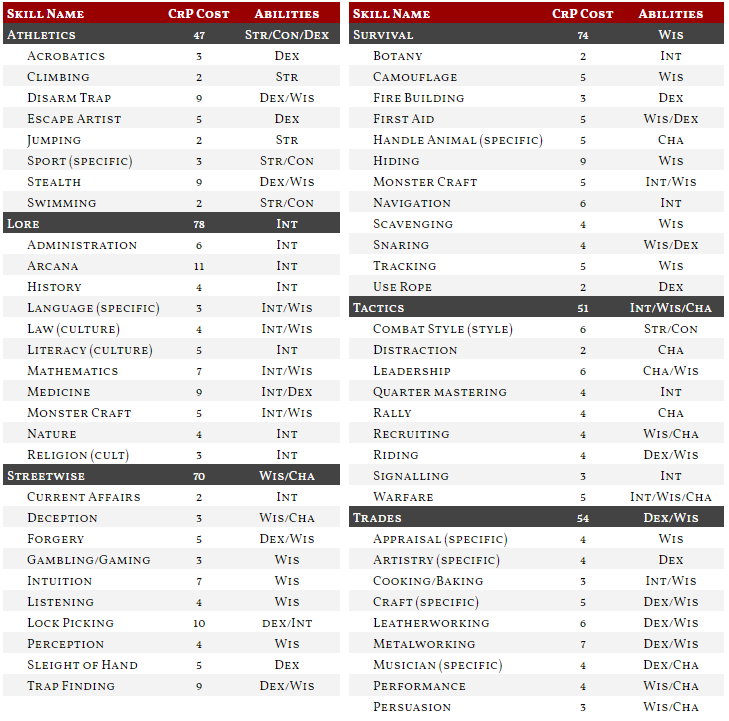
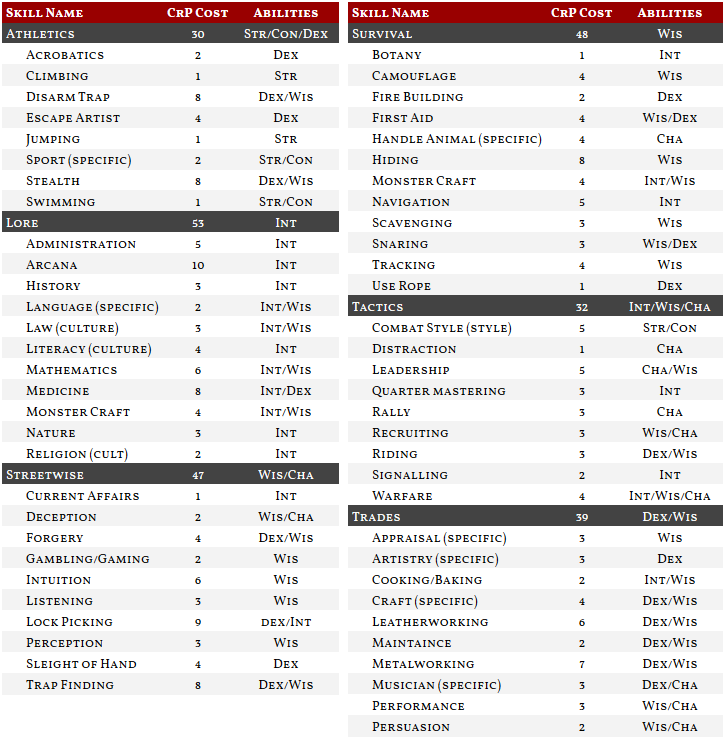
changed out the skill list to include maintaince skill

Changed region(s): [[0.0, 0.0, 0.9986, 1.0], [0.7868, 0.9764, 0.8171, 1.0]]

diff --git a/server/chapter.js b/server/chapter.js
@@ -72,7 +72,7 @@ chapterObject = {
                 break;
             case 8:
                 chapterObject.chapterEight = []
-                chapterObject.chapterEightSide = [{ linkid: 'h', body: 'Athletics Skill Suite' }, { linkid: 'hg', body: 'Acrobatics' }, { linkid: 'hg', body: 'Climbing' }, { linkid: 'hg', body: 'Disarm Trap' }, { linkid: 'hg', body: 'Escape Artist' }, { linkid: 'hg', body: 'Jumping' }, { linkid: 'hg', body: 'Sport (specific)' }, { linkid: 'hg', body: 'Stealth' }, { linkid: 'hg', body: 'Swimming' }, { linkid: 'h', body: 'Lore Skill Suite' }, { linkid: 'hg', body: 'Administration' }, { linkid: 'hg', body: 'Arcana' }, { linkid: 'hg', body: 'History' }, { linkid: 'hg', body: 'Language (specific)' }, { linkid: 'hg', body: 'Law (culture)' }, { linkid: 'hg', body: 'Literacy (language' }, { linkid: 'hg', body: 'Mathematics' }, { linkid: 'hg', body: 'Medicine' }, { linkid: 'hg', body: 'Monster Craft' }, { linkid: 'hg', body: 'Nature' }, { linkid: 'hg', body: 'Religion (cult)' }, { linkid: 'h', body: 'Streetwise Skill Suite' }, { linkid: 'hg', body: 'Current Affairs' }, { linkid: 'hg', body: 'Deception' }, { linkid: 'hg', body: 'Forgery' }, { linkid: 'hg', body: 'Gambling/Gaming' }, { linkid: 'hg', body: 'Intuition' }, { linkid: 'hg', body: 'Listening' }, { linkid: 'hg', body: 'Lock Picking' }, { linkid: 'hg', body: 'Perception' }, { linkid: 'hg', body: 'Sleight of Hand' }, { linkid: 'hg', body: 'Trap Finding' }, { linkid: 'h', body: 'Survival Skill Suite' }, { linkid: 'hg', body: 'Botany' }, { linkid: 'hg', body: 'Camouflage' }, { linkid: 'hg', body: 'Fire Building' }, { linkid: 'hg', body: 'First Aid' }, { linkid: 'hg', body: 'Handle Animal (specific)' }, { linkid: 'hg', body: 'Hiding' }, { linkid: 'hg', body: 'Monster Craft' }, { linkid: 'hg', body: 'Navigation' }, { linkid: 'hg', body: 'Scavenging' }, { linkid: 'hg', body: 'Snaring' }, { linkid: 'hg', body: 'Tracking' }, { linkid: 'hg', body: 'Use Rope' }, { linkid: 'h', body: 'Tactics Skill Suite' }, { linkid: 'hg', body: 'Combat Style (style)' }, { linkid: 'hg', body: 'Distraction' }, { linkid: 'hg', body: 'Leadership' }, { linkid: 'hg', body: 'Quarter Mastering' }, { linkid: 'hg', body: 'Rally' }, { linkid: 'hg', body: 'Recruiting' }, { linkid: 'hg', body: 'Riding' }, { linkid: 'hg', body: 'Signalling' }, { linkid: 'hg', body: 'Warfare' }, { linkid: 'h', body: 'Trades Skill Suite' }, { linkid: 'hg', body: 'Appraisal (specific)' }, { linkid: 'hg', body: 'Artistry (specific)' }, { linkid: 'hg', body: 'Cooking/Baking' }, { linkid: 'hg', body: 'Craft (specific)' }, { linkid: 'hg', body: 'Leatherworking' }, { linkid: 'hg', body: 'Metalworking' }, { linkid: 'hg', body: 'Musician (specific)' }, { linkid: 'hg', body: 'Performance' }, { linkid: 'hg', body: 'Persuasion' }]
+                chapterObject.chapterEightSide = [{ linkid: 'h', body: 'Athletics Skill Suite' }, { linkid: 'hg', body: 'Acrobatics' }, { linkid: 'hg', body: 'Climbing' }, { linkid: 'hg', body: 'Disarm Trap' }, { linkid: 'hg', body: 'Escape Artist' }, { linkid: 'hg', body: 'Jumping' }, { linkid: 'hg', body: 'Sport (specific)' }, { linkid: 'hg', body: 'Stealth' }, { linkid: 'hg', body: 'Swimming' }, { linkid: 'h', body: 'Lore Skill Suite' }, { linkid: 'hg', body: 'Administration' }, { linkid: 'hg', body: 'Arcana' }, { linkid: 'hg', body: 'History' }, { linkid: 'hg', body: 'Language (specific)' }, { linkid: 'hg', body: 'Law (culture)' }, { linkid: 'hg', body: 'Literacy (language' }, { linkid: 'hg', body: 'Mathematics' }, { linkid: 'hg', body: 'Medicine' }, { linkid: 'hg', body: 'Monster Craft' }, { linkid: 'hg', body: 'Nature' }, { linkid: 'hg', body: 'Religion (cult)' }, { linkid: 'h', body: 'Streetwise Skill Suite' }, { linkid: 'hg', body: 'Current Affairs' }, { linkid: 'hg', body: 'Deception' }, { linkid: 'hg', body: 'Forgery' }, { linkid: 'hg', body: 'Gambling/Gaming' }, { linkid: 'hg', body: 'Intuition' }, { linkid: 'hg', body: 'Listening' }, { linkid: 'hg', body: 'Lock Picking' }, { linkid: 'hg', body: 'Perception' }, { linkid: 'hg', body: 'Sleight of Hand' }, { linkid: 'hg', body: 'Trap Finding' }, { linkid: 'h', body: 'Survival Skill Suite' }, { linkid: 'hg', body: 'Botany' }, { linkid: 'hg', body: 'Camouflage' }, { linkid: 'hg', body: 'Fire Building' }, { linkid: 'hg', body: 'First Aid' }, { linkid: 'hg', body: 'Handle Animal (specific)' }, { linkid: 'hg', body: 'Hiding' }, { linkid: 'hg', body: 'Monster Craft' }, { linkid: 'hg', body: 'Navigation' }, { linkid: 'hg', body: 'Scavenging' }, { linkid: 'hg', body: 'Snaring' }, { linkid: 'hg', body: 'Tracking' }, { linkid: 'hg', body: 'Use Rope' }, { linkid: 'h', body: 'Tactics Skill Suite' }, { linkid: 'hg', body: 'Combat Style (style)' }, { linkid: 'hg', body: 'Distraction' }, { linkid: 'hg', body: 'Leadership' }, { linkid: 'hg', body: 'Quarter Mastering' }, { linkid: 'hg', body: 'Rally' }, { linkid: 'hg', body: 'Recruiting' }, { linkid: 'hg', body: 'Riding' }, { linkid: 'hg', body: 'Signalling' }, { linkid: 'hg', body: 'Warfare' }, { linkid: 'h', body: 'Trades Skill Suite' }, { linkid: 'hg', body: 'Appraisal (specific)' }, { linkid: 'hg', body: 'Artistry (specific)' }, { linkid: 'hg', body: 'Cooking/Baking' }, { linkid: 'hg', body: 'Craft (specific)' }, { linkid: 'hg', body: 'Leatherworking' }, { linkid: 'hg', body: 'Maintaince' }, { linkid: 'hg', body: 'Metalworking' }, { linkid: 'hg', body: 'Musician (specific)' }, { linkid: 'hg', body: 'Performance' }, { linkid: 'hg', body: 'Persuasion' }]
                 collectChapter(db, chapterObject.chapterEight, '8.p.1')
                 break;
             case 9:
